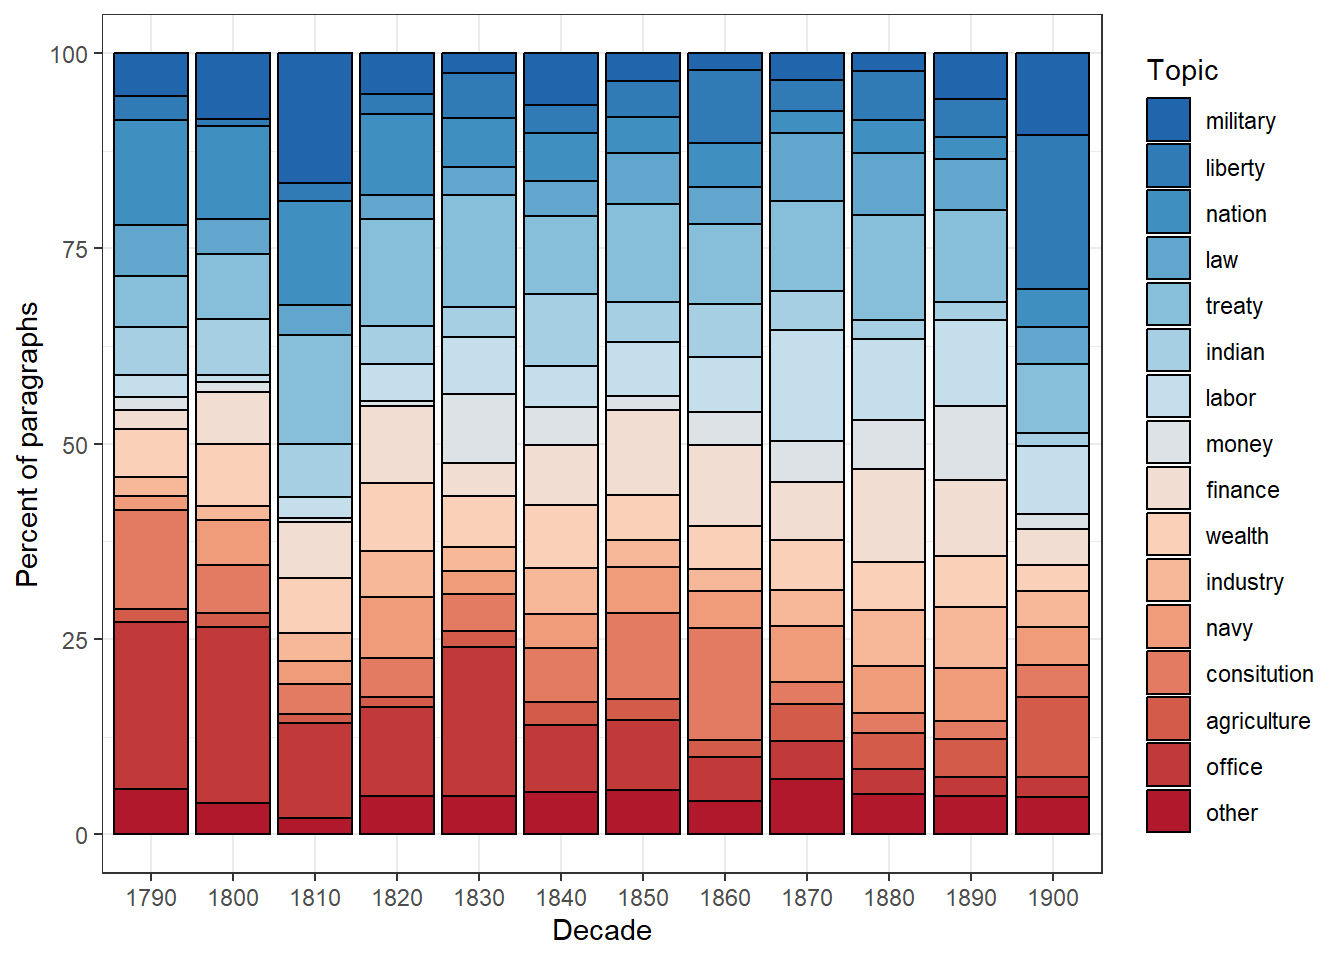
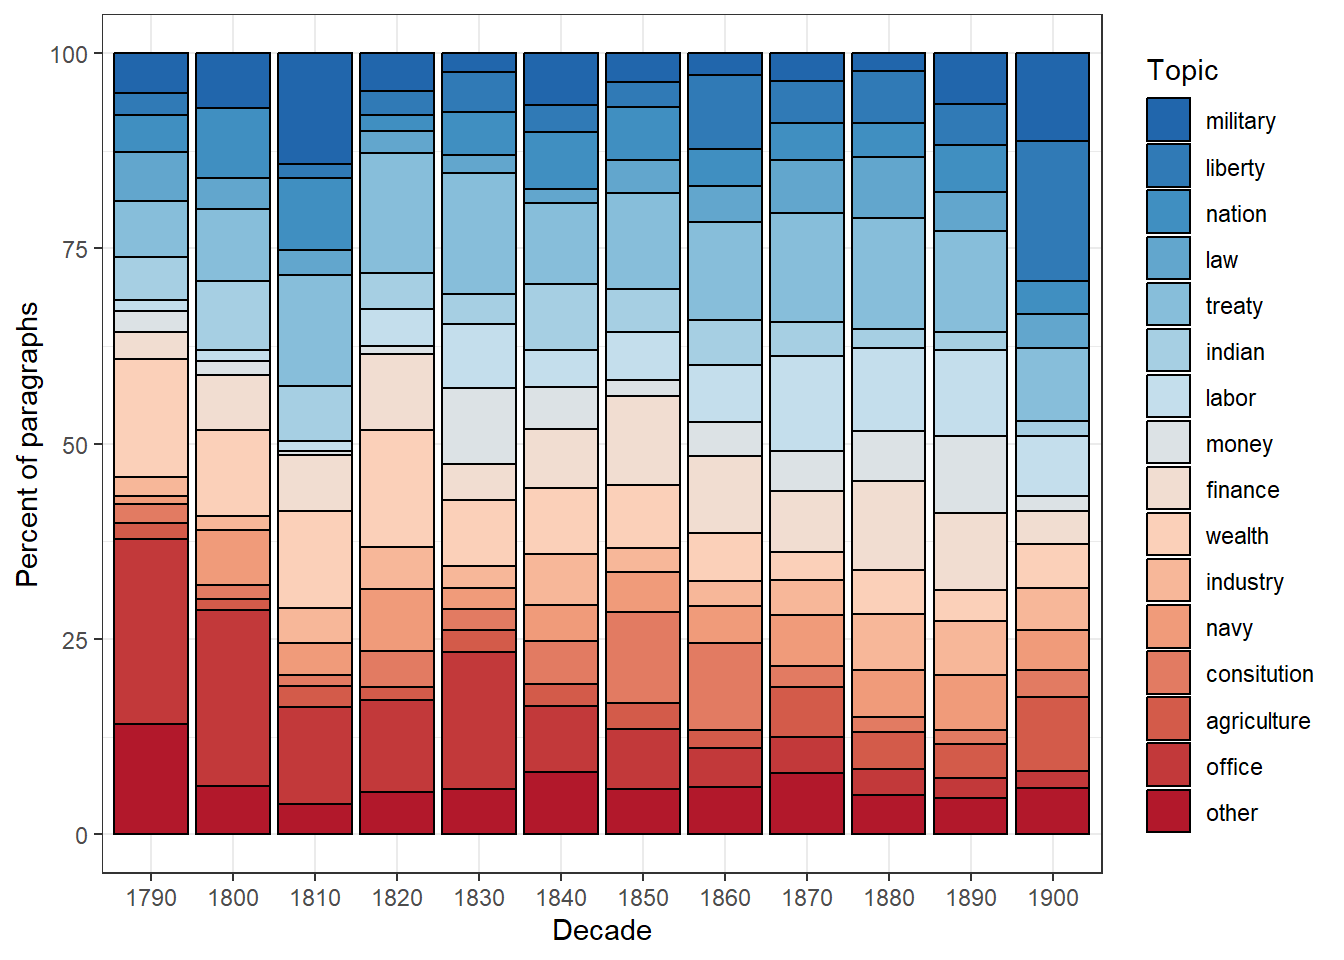
tm update

diff --git a/docs/topic.html b/docs/topic.html
@@ -421,25 +421,67 @@ data using R and how to visualize the results of such a model. The aim
 is not to provide a fully-fledged analysis but rather to show and
 exemplify selected useful methods associated with topic modeling.</p>
 <div class="warning"
-style="padding:0.1em; background-color:#f2f2f2; color:#51247a">
+style="padding:0.1em; background-color:rgba(215,209,204,.3); color:#51247a">
 <span>
 <p style="margin-top:1em; text-align:center">
-The entire R Notebook for the tutorial can be downloaded <a
-href="https://slcladal.github.io/content/topic.Rmd"><strong>here</strong></a>.
-If you want to render the R Notebook on your machine, i.e. knitting the
-document to html or a pdf, you need to make sure that you have R and
-RStudio installed and you also need to download the <a
-href="https://slcladal.github.io/content/bibliography.bib"><strong>bibliography
-file</strong></a> and store it in the same folder where you store the
-Rmd file. <br><br> <a
-href="https://mybinder.org/v2/gh/SLCLADAL/interactive-notebooks-environment/main?urlpath=git-pull%3Frepo%3Dhttps%253A%252F%252Fgithub.com%252FSLCLADAL%252Finteractive-notebooks%26urlpath%3Dlab%252Ftree%252Finteractive-notebooks%252Fnotebooks%252Ftm_cb.ipynb%26branch%3Dmain"><img
-src="https://mybinder.org/badge_logo.svg" alt="Binder" /></a><br> <a
-href="https://mybinder.org/v2/gh/SLCLADAL/interactive-notebooks-environment/main?urlpath=git-pull%3Frepo%3Dhttps%253A%252F%252Fgithub.com%252FSLCLADAL%252Finteractive-notebooks%26urlpath%3Dlab%252Ftree%252Finteractive-notebooks%252Fnotebooks%252Ftm_cb.ipynb%26branch%3Dmain"><strong>Click
-this link to open an interactive version of this tutorial on
-MyBinder.org</strong></a>. <br> This interactive Jupyter notebook allows
-you to execute code yourself and you can also change and edit the
-notebook, e.g. you can change code and upload your own data. <br>
+To be able to follow this tutorial, we suggest you check out and
+familiarize yourself with the content of the following <strong>R
+Basics</strong> tutorials:<br>
 </p>
+<p style="margin-top:1em; text-align:left">
+<ul>
+<li>
+<a href="https://ladal.edu.au/intror.html">Getting started with R</a>
+</li>
+<li>
+<a href="https://ladal.edu.au/load.html">Loading, saving, and generating
+data in R</a>
+</li>
+<li>
+<a href="https://ladal.edu.au/string.html">String Processing in R</a>
+</li>
+<li>
+<a href="https://ladal.edu.au/regex.html">Regular Expressions in R</a>
+</li>
+</ul>
+</p>
+<p style="margin-top:1em; text-align:center">
+Click <a
+href="https://ladal.edu.au/content/topic.Rmd"><strong>here</strong></a><a
+href="#fn1" class="footnote-ref" id="fnref1"><sup>1</sup></a> to
+download the <strong>entire R Notebook</strong> for this
+tutorial.<br><br> <a
+href="https://mybinder.org/v2/gh/SLCLADAL/interactive-notebooks-environment/main?urlpath=git-pull%3Frepo%3Dhttps%253A%252F%252Fgithub.com%252FSLCLADAL%252Finteractive-notebooks%26urlpath%3Dlab%252Ftree%252Finteractive-notebooks%252Fnotebooks%252Ftm_cb.ipynb%26branch%3Dmain"><img
+src="https://mybinder.org/badge_logo.svg" alt="Binder" /></a><br> Click
+<a
+href="https://mybinder.org/v2/gh/SLCLADAL/interactive-notebooks-environment/main?urlpath=git-pull%3Frepo%3Dhttps%253A%252F%252Fgithub.com%252FSLCLADAL%252Finteractive-notebooks%26urlpath%3Dlab%252Ftree%252Finteractive-notebooks%252Fnotebooks%252Ftm_cb.ipynb%26branch%3Dmain"><strong>here</strong></a>
+to open a Jupyter notebook that allows you to follow this tutorial
+interactively. This means that you can execute, change, and edit the
+code used in this tutorial to help you better understand how the code
+shown here works (make sure you run all code chunks in the order in
+which they appear to avoid running into errors).
+</p>
+<br>
+</p>
+<p style="margin-left:1em;">
+</p>
+<p></span></p>
+</div>
+<p><br></p>
+<div class="warning"
+style="padding:0.1em; background-color:#51247a; color:#f2f2f2">
+<span>
+<p style="margin-top:1em; text-align:center">
+<strong>TOPIC MODEL TOOL</strong>
+</p>
+<p style="margin-top:1em; text-align:center">
+Click on this <a
+href="https://binderhub.atap-binder.cloud.edu.au/v2/gh/SLCLADAL/interactive-notebooks-environment/main?urlpath=git-pull%3Frepo%3Dhttps%253A%252F%252Fgithub.com%252FSLCLADAL%252Finteractive-notebooks%26urlpath%3Dlab%252Ftree%252Finteractive-notebooks%252Fnotebooks%252Ftopictool.ipynb%26branch%3Dmain"><img
+src="https://mybinder.org/badge_logo.svg" alt="Binder" /></a> badge to
+open an notebook-based tool <br>that allows you to upload your own
+text(s), perform topic modelling on them, and download the results.
+</p>
+<br>
 <p style="margin-left:1em;">
 </p>
 <p></span></p>
@@ -871,39 +913,39 @@ tmod_slda &lt;- seededlda::textmodel_seededlda(ctxts,
                                             min_termfreq = 2)
 # inspect
 seededlda::terms(tmod_slda)</code></pre>
-<pre><code>##       military   liberty   nation    law        treaty    indian     
-##  [1,] &quot;war&quot;      &quot;free&quot;    &quot;countri&quot; &quot;law&quot;      &quot;treati&quot;  &quot;territori&quot;
-##  [2,] &quot;militari&quot; &quot;peopl&quot;   &quot;nation&quot;  &quot;court&quot;    &quot;claim&quot;   &quot;indian&quot;   
-##  [3,] &quot;armi&quot;     &quot;can&quot;     &quot;citizen&quot; &quot;case&quot;     &quot;govern&quot;  &quot;tribe&quot;    
-##  [4,] &quot;forc&quot;     &quot;must&quot;    &quot;will&quot;    &quot;person&quot;   &quot;unite&quot;   &quot;mexico&quot;   
-##  [5,] &quot;offic&quot;    &quot;govern&quot;  &quot;great&quot;   &quot;govern&quot;   &quot;negoti&quot;  &quot;will&quot;     
-##  [6,] &quot;command&quot;  &quot;liberti&quot; &quot;peopl&quot;   &quot;upon&quot;     &quot;minist&quot;  &quot;new&quot;      
-##  [7,] &quot;servic&quot;   &quot;upon&quot;    &quot;everi&quot;   &quot;right&quot;    &quot;convent&quot; &quot;part&quot;     
-##  [8,] &quot;men&quot;      &quot;everi&quot;   &quot;us&quot;      &quot;author&quot;   &quot;britain&quot; &quot;texa&quot;     
-##  [9,] &quot;conflict&quot; &quot;polit&quot;   &quot;happi&quot;   &quot;act&quot;      &quot;british&quot; &quot;within&quot;   
-## [10,] &quot;order&quot;    &quot;great&quot;   &quot;confid&quot;  &quot;properti&quot; &quot;two&quot;     &quot;line&quot;     
+<pre><code>##       military   liberty   nation     law       treaty    indian     
+##  [1,] &quot;war&quot;      &quot;free&quot;    &quot;countri&quot;  &quot;law&quot;     &quot;treati&quot;  &quot;territori&quot;
+##  [2,] &quot;militari&quot; &quot;peopl&quot;   &quot;nation&quot;   &quot;court&quot;   &quot;claim&quot;   &quot;indian&quot;   
+##  [3,] &quot;armi&quot;     &quot;can&quot;     &quot;citizen&quot;  &quot;case&quot;    &quot;govern&quot;  &quot;tribe&quot;    
+##  [4,] &quot;forc&quot;     &quot;govern&quot;  &quot;govern&quot;   &quot;person&quot;  &quot;negoti&quot;  &quot;mexico&quot;   
+##  [5,] &quot;offic&quot;    &quot;must&quot;    &quot;foreign&quot;  &quot;may&quot;     &quot;unite&quot;   &quot;part&quot;     
+##  [6,] &quot;servic&quot;   &quot;upon&quot;    &quot;american&quot; &quot;provis&quot;  &quot;minist&quot;  &quot;new&quot;      
+##  [7,] &quot;command&quot;  &quot;liberti&quot; &quot;upon&quot;     &quot;upon&quot;    &quot;relat&quot;   &quot;texa&quot;     
+##  [8,] &quot;men&quot;      &quot;everi&quot;   &quot;right&quot;    &quot;offic&quot;   &quot;two&quot;     &quot;will&quot;     
+##  [9,] &quot;conflict&quot; &quot;public&quot;  &quot;time&quot;     &quot;execut&quot;  &quot;convent&quot; &quot;govern&quot;   
+## [10,] &quot;order&quot;    &quot;will&quot;    &quot;properti&quot; &quot;subject&quot; &quot;britain&quot; &quot;made&quot;     
 ##       labor       money      finance      wealth     industry     navy       
 ##  [1,] &quot;condit&quot;    &quot;bank&quot;     &quot;year&quot;       &quot;peac&quot;     &quot;produc&quot;     &quot;vessel&quot;   
-##  [2,] &quot;work&quot;      &quot;money&quot;    &quot;debt&quot;       &quot;govern&quot;   &quot;industri&quot;   &quot;navi&quot;     
-##  [3,] &quot;labor&quot;     &quot;gold&quot;     &quot;amount&quot;     &quot;prosper&quot;  &quot;manufactur&quot; &quot;ship&quot;     
-##  [4,] &quot;report&quot;    &quot;govern&quot;   &quot;expenditur&quot; &quot;relat&quot;    &quot;import&quot;     &quot;naval&quot;    
-##  [5,] &quot;depart&quot;    &quot;currenc&quot;  &quot;treasuri&quot;   &quot;interest&quot; &quot;product&quot;    &quot;construct&quot;
-##  [6,] &quot;congress&quot;  &quot;silver&quot;   &quot;increas&quot;    &quot;continu&quot;  &quot;foreign&quot;    &quot;coast&quot;    
-##  [7,] &quot;servic&quot;    &quot;treasuri&quot; &quot;fiscal&quot;     &quot;friend&quot;   &quot;trade&quot;      &quot;port&quot;     
-##  [8,] &quot;secretari&quot; &quot;public&quot;   &quot;estim&quot;      &quot;foreign&quot;  &quot;increas&quot;    &quot;sea&quot;      
-##  [9,] &quot;recommend&quot; &quot;note&quot;     &quot;revenu&quot;     &quot;spain&quot;    &quot;upon&quot;       &quot;commerc&quot;  
-## [10,] &quot;attent&quot;    &quot;issu&quot;     &quot;last&quot;       &quot;polici&quot;   &quot;revenu&quot;     &quot;great&quot;    
+##  [2,] &quot;work&quot;      &quot;money&quot;    &quot;debt&quot;       &quot;prosper&quot;  &quot;industri&quot;   &quot;navi&quot;     
+##  [3,] &quot;labor&quot;     &quot;gold&quot;     &quot;amount&quot;     &quot;will&quot;     &quot;manufactur&quot; &quot;ship&quot;     
+##  [4,] &quot;report&quot;    &quot;currenc&quot;  &quot;expenditur&quot; &quot;us&quot;       &quot;product&quot;    &quot;naval&quot;    
+##  [5,] &quot;depart&quot;    &quot;silver&quot;   &quot;treasuri&quot;   &quot;peopl&quot;    &quot;import&quot;     &quot;port&quot;     
+##  [6,] &quot;congress&quot;  &quot;govern&quot;   &quot;increas&quot;    &quot;great&quot;    &quot;foreign&quot;    &quot;coast&quot;    
+##  [7,] &quot;secretari&quot; &quot;treasuri&quot; &quot;fiscal&quot;     &quot;everi&quot;    &quot;trade&quot;      &quot;construct&quot;
+##  [8,] &quot;recommend&quot; &quot;note&quot;     &quot;last&quot;       &quot;interest&quot; &quot;increas&quot;    &quot;sea&quot;      
+##  [9,] &quot;servic&quot;    &quot;issu&quot;     &quot;revenu&quot;     &quot;happi&quot;    &quot;revenu&quot;     &quot;commerc&quot;  
+## [10,] &quot;attent&quot;    &quot;public&quot;   &quot;estim&quot;      &quot;world&quot;    &quot;articl&quot;     &quot;great&quot;    
 ##       consitution agriculture  office     other     
 ##  [1,] &quot;state&quot;     &quot;land&quot;       &quot;duti&quot;     &quot;congress&quot;
 ##  [2,] &quot;power&quot;     &quot;agricultur&quot; &quot;will&quot;     &quot;act&quot;     
 ##  [3,] &quot;constitut&quot; &quot;public&quot;     &quot;may&quot;      &quot;last&quot;    
-##  [4,] &quot;unite&quot;     &quot;grow&quot;       &quot;can&quot;      &quot;session&quot; 
-##  [5,] &quot;govern&quot;    &quot;larg&quot;       &quot;subject&quot;  &quot;author&quot;  
-##  [6,] &quot;repres&quot;    &quot;interest&quot;   &quot;measur&quot;   &quot;day&quot;     
-##  [7,] &quot;union&quot;     &quot;grant&quot;      &quot;consider&quot; &quot;made&quot;    
-##  [8,] &quot;shall&quot;     &quot;acr&quot;        &quot;congress&quot; &quot;messag&quot;  
-##  [9,] &quot;right&quot;     &quot;improv&quot;     &quot;object&quot;   &quot;subject&quot; 
-## [10,] &quot;congress&quot;  &quot;will&quot;       &quot;shall&quot;    &quot;provis&quot;</code></pre>
+##  [4,] &quot;unite&quot;     &quot;grow&quot;       &quot;can&quot;      &quot;repres&quot;  
+##  [5,] &quot;govern&quot;    &quot;improv&quot;     &quot;subject&quot;  &quot;session&quot; 
+##  [6,] &quot;right&quot;     &quot;larg&quot;       &quot;congress&quot; &quot;presid&quot;  
+##  [7,] &quot;union&quot;     &quot;year&quot;       &quot;consider&quot; &quot;senat&quot;   
+##  [8,] &quot;shall&quot;     &quot;reserv&quot;     &quot;measur&quot;   &quot;hous&quot;    
+##  [9,] &quot;one&quot;       &quot;now&quot;        &quot;shall&quot;    &quot;upon&quot;    
+## [10,] &quot;act&quot;       &quot;acr&quot;        &quot;object&quot;   &quot;author&quot;</code></pre>
 <p>Now, we extract files and create a data frame of topics and
 documents. This shows what topic is dominant in which file in tabular
 form.</p>
@@ -917,13 +959,13 @@ data.frame(tmod_slda$data$date, tmod_slda$data$president, seededlda::topics(tmod
   dplyr::mutate_if(is.character, factor) -&gt; topic_df
 # inspect
 head(topic_df)</code></pre>
-<pre><code>##       Date         President       Topic
-## text1 1790 George Washington consitution
-## text2 1790 George Washington      wealth
-## text3 1790 George Washington      office
-## text4 1790 George Washington       labor
-## text5 1790 George Washington    military
-## text6 1790 George Washington      office</code></pre>
+<pre><code>##       Date         President  Topic
+## text1 1790 George Washington  other
+## text2 1790 George Washington wealth
+## text3 1790 George Washington office
+## text4 1790 George Washington wealth
+## text5 1790 George Washington office
+## text6 1790 George Washington office</code></pre>
 <p>Using the table (or data frame) we have just created, we can
 visualize the use of topics over time.</p>
 <pre class="r"><code>topic_df %&gt;%
@@ -1767,6 +1809,17 @@ on Teaching <span>NLP</span> for Digital Humanities
 href="http://ceur-ws.org/Vol-1918/wiedemann.pdf">http://ceur-ws.org/Vol-1918/wiedemann.pdf</a>.
 </div>
 </div>
+</div>
+<div class="footnotes footnotes-end-of-document">
+<hr />
+<ol>
+<li id="fn1"><p>If you want to render the R Notebook on your machine,
+i.e. knitting the document to html or a pdf, you need to make sure that
+you have R and RStudio installed and you also need to download the <a
+href="https://slcladal.github.io/content/bibliography.bib"><strong>bibliography
+file</strong></a> and store it in the same folder where you store the
+Rmd file.<a href="#fnref1" class="footnote-back">↩</a></p></li>
+</ol>
 </div>
 
 
